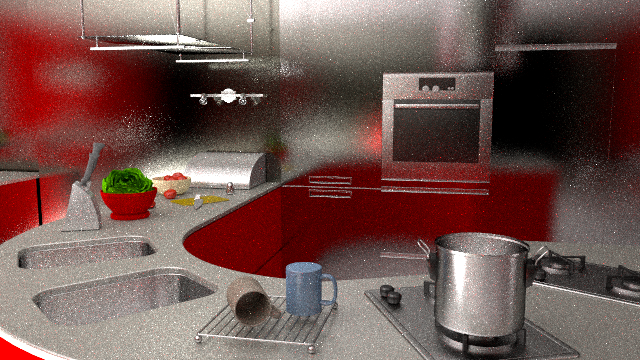
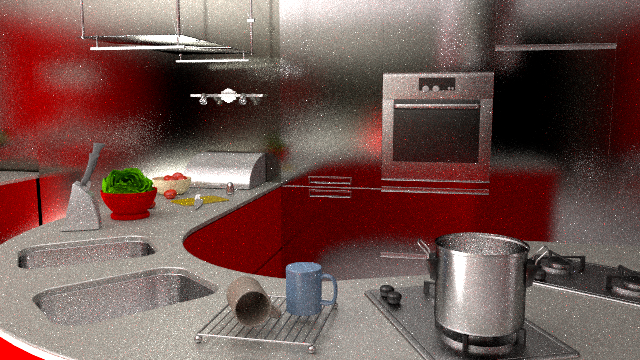
Update readme and sample images

Changed region(s): [[0.0, 0.0, 1.0, 1.0], [0.9062, 0.3056, 0.9375, 0.3361]]

diff --git a/README.md b/README.md
@@ -17,14 +17,16 @@ Note: the above glossy kitchen scene is not bundled in this repository due to li
 ## Improvements
 
 This repository contains the following improvements over what was presented in the paper of Müller et al. [2017]:
+- Inverse-variance-based sample combination to discard fewer samples.
 - Filtered SD-tree splatting for increased robustness.
 - Automatic learning of the BSDF / SD-tree sampling ratio via gradient descent based on the theory of [Neural Importance Sampling [Müller et al. 2018]](https://tom94.net).
 
-To see the effect of each of these improvements, compare the above example renders with [filtered SD-tree splatting only](resources/glossy-kitchen-splatting-only.png) and [sampling ratio learning only](resources/glossy-kitchen-mis-only.png).
+To see the effect of each of these improvements, compare the above example renders with [only the inverse-variance-based sample combination](resources/glossy-kitchen-inverse-variance-only.png), [only filtered SD-tree splatting](resources/glossy-kitchen-splatting-only.png) and [only sampling ratio learning](resources/glossy-kitchen-mis-only.png).
 
 Since these improvements significantly improve the algorithm, they are *disabled* by default for reproducibility of the paper's results.
 To get the optimal results *with* the improvements, simply add the following parameters to the integrator in the scene XML file
 ```xml
+<string name="sampleCombination" value="inversevar"/>
 <string name="bsdfSamplingFractionLoss" value="kl"/>
 <string name="spatialFilter" value="stochastic"/>
 <string name="directionalFilter" value="box"/>
@@ -74,6 +76,7 @@ The torus, situated inside of a glass cube, gives rise to difficult specular-dif
 - `GuidedPathTracer` (*guided_path.cpp*)
   - Added the guided path tracer implementing [Müller et al. 2017].
   - Additionally, implemented the following improvements that are not implemented in the paper:
+    - Inverse-variance-based sample combination.
     - Filtered SD-tree splatting.
     - Automatic learning of the BSDF / SD-tree sampling ratio via gradient descent based on the theory of [Neural Importance Sampling [Müller et al. 2018]](https://tom94.net).
 - `ImageBlock` (*imageblock.h*)
